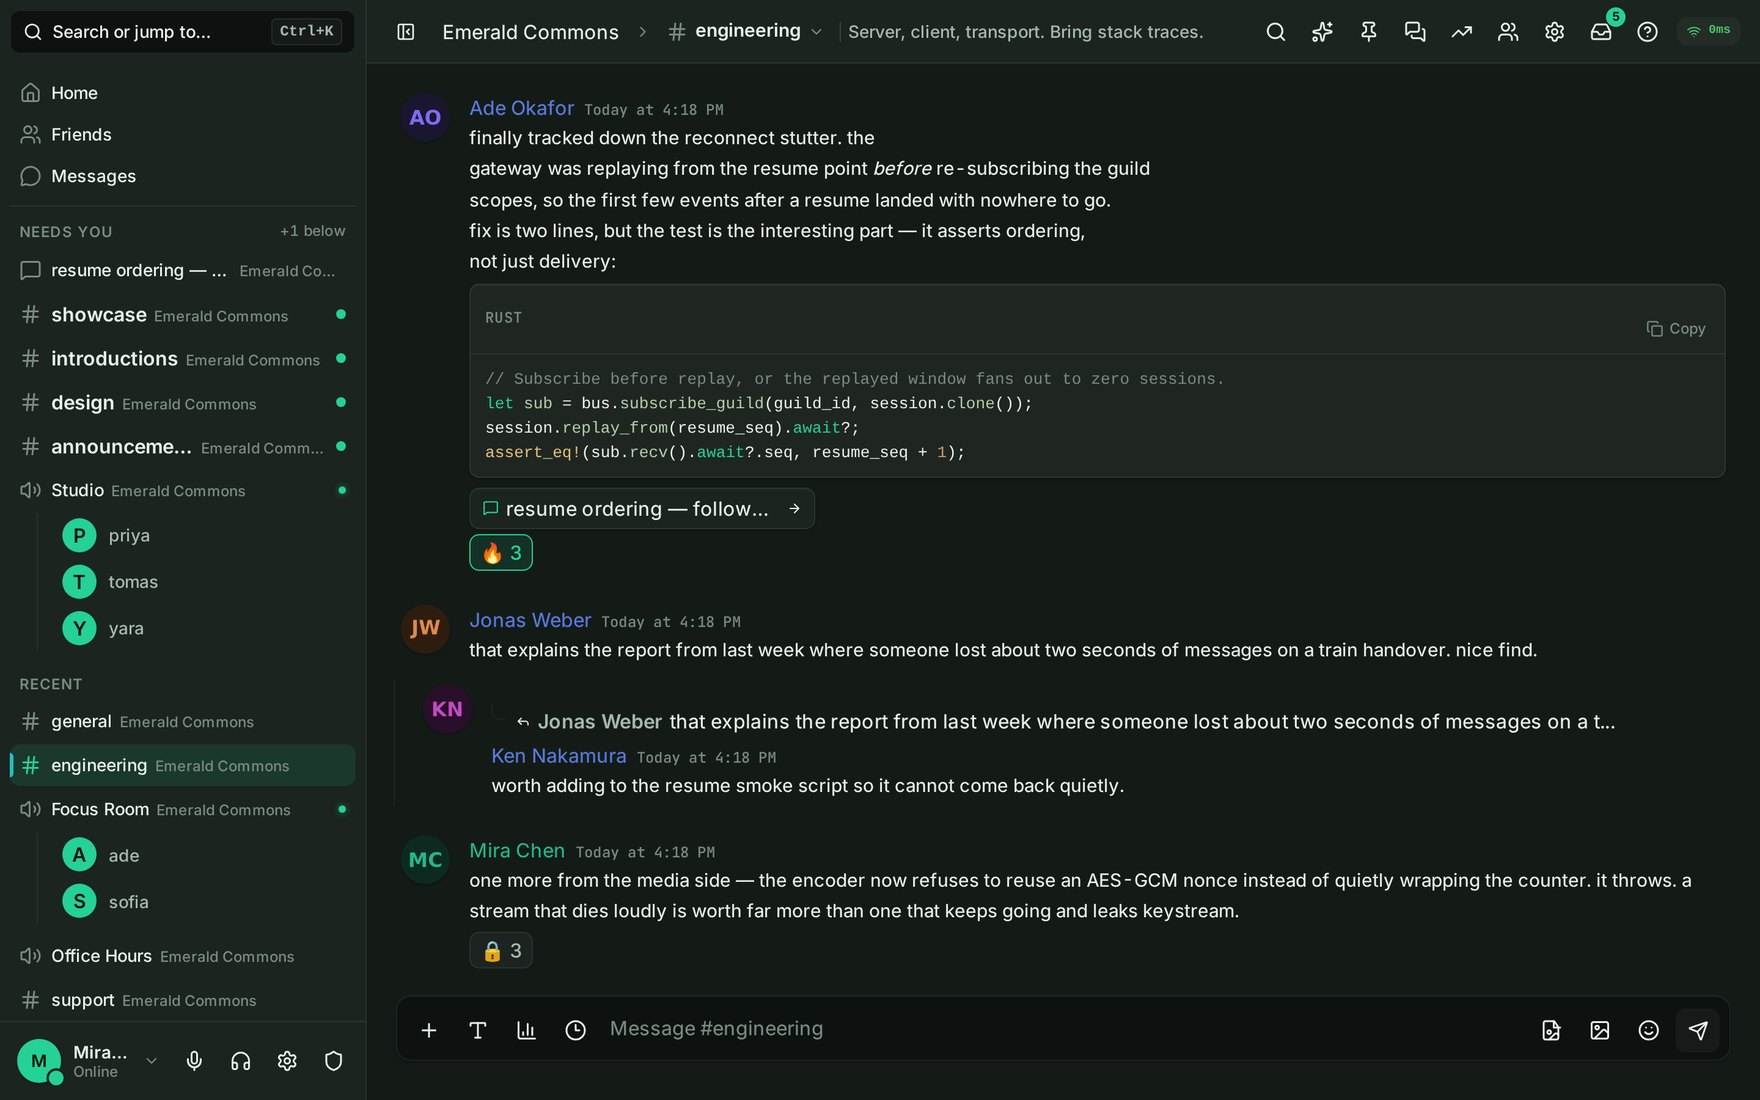
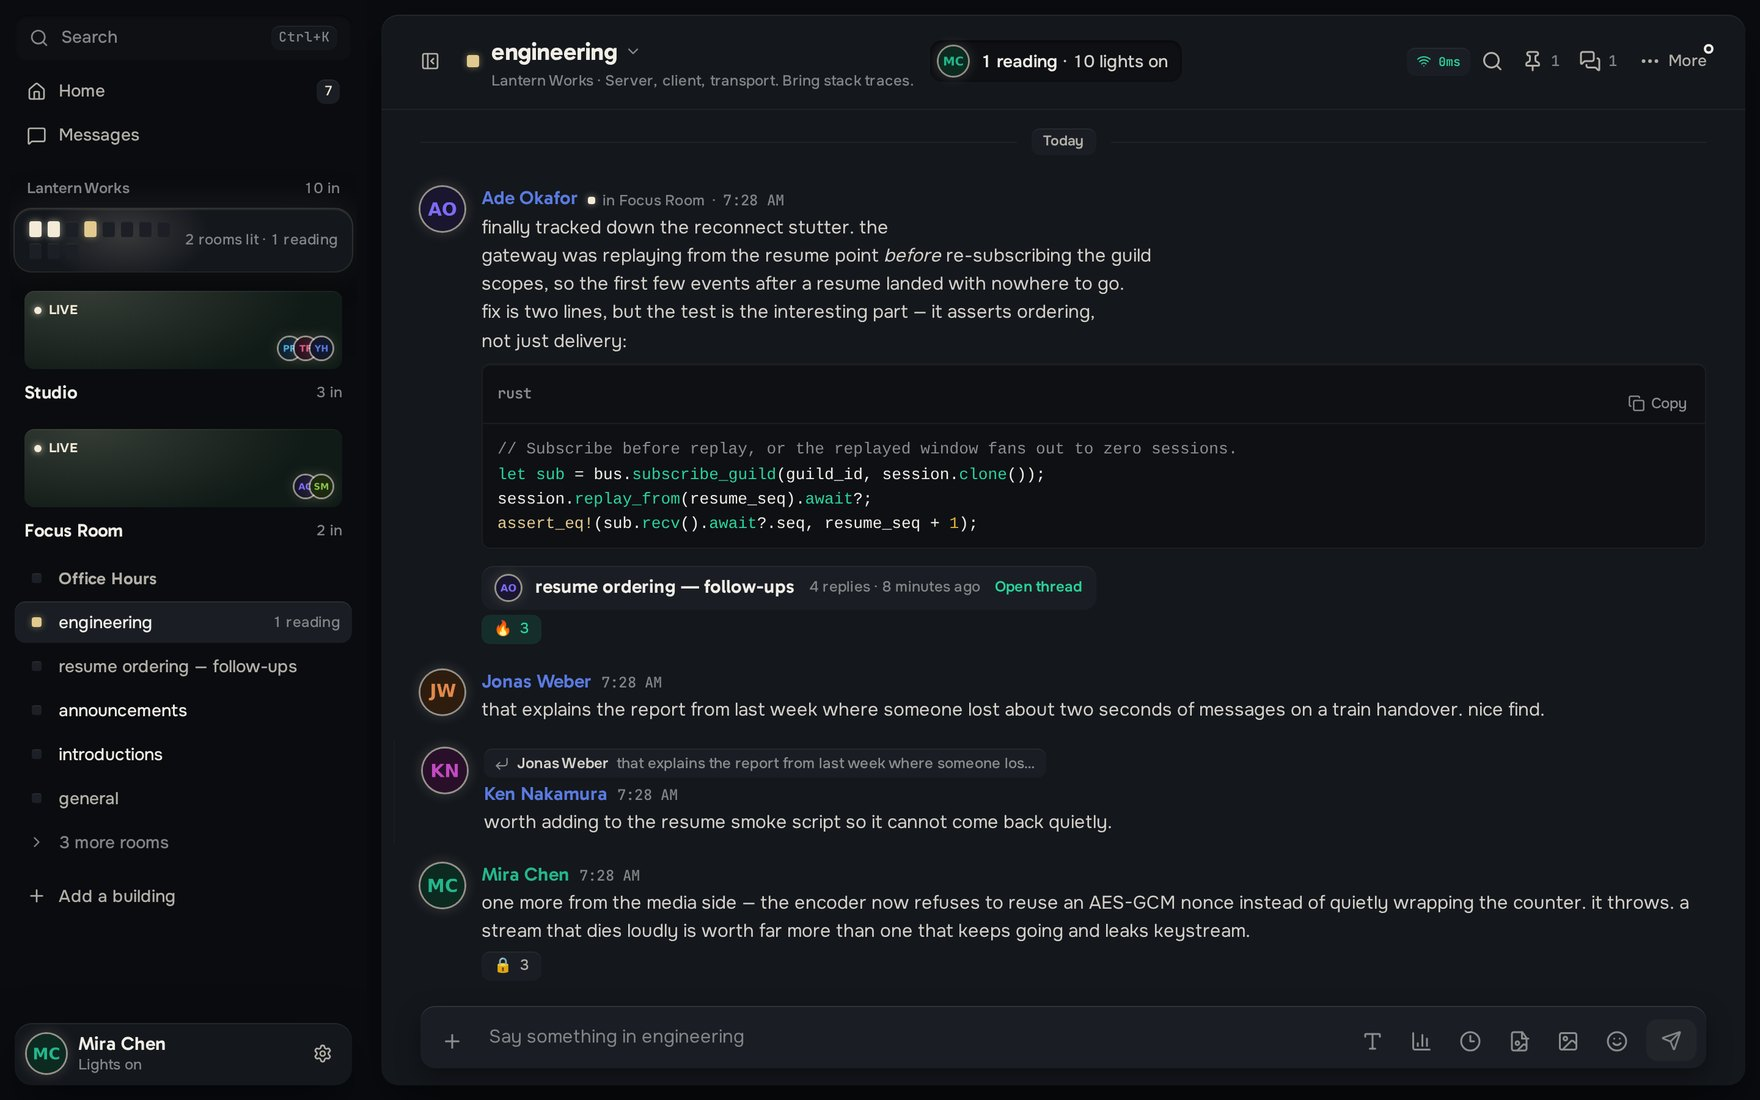
docs(readme): screenshots of the product that exists now
The eight README images were captured against Emerald Commons in July and show
a UI that no longer exists: a green-black ramp, a docked Members panel, a
"live rooms" space front door. They are replaced with a fresh set from the same
tooling, against the same kind of real instance — a throwaway server, a fixture
community seeded over the public REST API, and nine people holding real sessions
(four in browsers, five inside voice rooms over the client's own realtime
handshake). Nothing is drawn or retouched.

Three changes to the capture script the new UI required:

  - `rooms.jpg` is `lobby.jpg`: a building's lobby, not a list of channels. Its
    log line now reads the Lobby's own words ("2 rooms lit, 10 with their lights
    on") and says so out loud when nothing is lit, because a capture of a dark
    building is a capture of the wrong product.
  - `members.jpg` is `people.jpg`. There is no docked member list (§6.5); the
    header's here-now strip opens the one full list of people the product has.
  - the lobby is opened BEFORE the rooms are left to run, not after. A room's
    duration counts from the moment that page first saw it lit — the gateway
    sends membership, not call start times, and the client refuses to invent one
    — so a reload before the shot restarts every clock and the cards read
    "0:03". They now read the real elapsed time.

The fixture building is `Lantern Works` rather than `Emerald Commons`, and the
[…]

diff --git a/scripts/seed-demo-community.py b/scripts/seed-demo-community.py
@@ -153,7 +153,7 @@ OUT = {}
 # Space, roles, members
 # --------------------------------------------------------------------------
 print("creating space ...")
-guild = req("POST", "/guilds", token=OT, json={"name": "Emerald Commons"})
+guild = req("POST", "/guilds", token=OT, json={"name": "Lantern Works"})
 GID = str(guild["id"])
 OUT["guild_id"] = GID
 req("PATCH", f"/guilds/{GID}", token=OT, json={
@@ -216,7 +216,7 @@ for cid in default_channels:
 
 for cid, topic in [
     (ch_general, "Anything and everything. Be decent to each other."),
-    (ch_design, "Emerald Commons design system — tokens, layout, motion."),
+    (ch_design, "The Lantern Stage design system — tokens, light, motion."),
     (ch_eng, "Server, client, transport. Bring stack traces."),
     (ch_show, "Show what you built or what you are running."),
     (ch_announce, "Releases and things worth reading."),

diff --git a/README.md b/README.md
@@ -28,47 +28,47 @@
 
 ---
 
-Paracord is a source-available, Discord-style community platform that you run yourself. One server hosts spaces, text and voice rooms, direct messages, roles, moderation, bots, events, and community tools — without renting a third-party media service or handing your members' conversations to someone else.
+Paracord is a source-available, Discord-style community platform that you run yourself. One server hosts buildings, text and voice rooms, direct messages, roles, moderation, bots, events, and community tools — without renting a third-party media service or handing your members' conversations to someone else.
 
-The client opens on a single Home rather than a wall of server icons. Mentions, unread conversations, live rooms, and direct messages are ranked together, so you see what actually wants your attention instead of sweeping each space by hand.
+The client is a building at night, and light means people. Every community you belong to is a building; every room in it is a window, lit while somebody is in there. The app opens on Home — the street outside your buildings — rather than a wall of server icons, so you can see where people are before you go looking.
 
-![Paracord Home: live rooms, the space you were last in, and channels to pick back up](docs/images/readme/home.jpg)
+![Home: the buildings you belong to, which of their rooms are lit, and the work waiting on you](docs/images/readme/home.jpg)
 
 ## Why Paracord
 
 - **Own the deployment.** One server binary, or Docker Compose. SQLite works out of the box; PostgreSQL is there when the instance outgrows it.
 - **Own the media path.** Voice, video, and screen share run on Paracord's native QUIC/WebTransport stack by default. LiveKit is an option, not a dependency.
 - **Start without a configuration ceremony.** First run writes the config, generates a JWT signing secret and SQLite database, and — for the standalone binary — issues a self-signed certificate. Then it prints the URL to open.
-- **Use one client everywhere.** Connect to several Paracord servers and move between their spaces, conversations, and notifications without switching apps.
+- **Use one client everywhere.** Connect to several Paracord servers and move between their buildings, conversations, and notifications without switching apps.
 - **Shape the community.** Roles, permissions, onboarding, moderation, AutoMod, bots, webhooks, storage policy, events, and audit logs are all managed in the app.
 - **See what the server is doing.** A built-in health view reports backups, database size, transport security, and capacity — and tells you what to fix, not just what broke.
 
 ## A look around
 
-Spaces open on the people who are already there. Rooms that have someone in them come first; the rest stay one click away.
+A building's lobby is what you see from the street: who has their lights on, which rooms are lit right now and who is in them, what is coming up, and the text rooms below. A lit room shows you what is happening in it before you decide to walk in.
 
-![A space opening on its rooms, two of them occupied](docs/images/readme/rooms.jpg)
+![A building's lobby: two rooms lit with the people in them, one dark, and an event coming up](docs/images/readme/lobby.jpg)
 
-Conversations carry what you would expect them to: replies, reactions, threads, polls, attachments, and code that arrives readable.
-
-| | |
-| :--- | :--- |
-| ![A text channel with replies, reactions, inline code, and an open poll](docs/images/readme/messaging.jpg) | ![A syntax-highlighted code block and the thread branching off it](docs/images/readme/engineering.jpg) |
-| Markdown, attachments, reactions, polls, scheduled messages, commands, GIFs, stickers, and embeds. | Syntax-highlighted code blocks, and threads that split a tangent off without derailing the channel. |
-
-Context panels stay out of the way until you ask for them, and the command palette reaches anything you can name.
+Conversations carry what you would expect them to: replies, reactions, threads, polls, attachments, and code that arrives readable. The header counts the people reading rather than listing everyone who ever joined.
 
 | | |
 | :--- | :--- |
-| ![The Members panel open beside a channel, grouped by role](docs/images/readme/members.jpg) | ![The command palette](docs/images/readme/command-palette.jpg) |
-| Members, threads, pins, inbox, search, and summaries open beside the conversation rather than on top of it. | Jump to any action, space, channel, DM, or setting with <kbd>Ctrl</kbd>/<kbd>⌘</kbd> + <kbd>K</kbd>. |
+| ![A text room with replies, reactions, inline code, and an open poll](docs/images/readme/messaging.jpg) | ![A syntax-highlighted code block and the thread branching off it](docs/images/readme/engineering.jpg) |
+| Markdown, attachments, reactions, polls, scheduled messages, commands, GIFs, stickers, and embeds. | Syntax-highlighted code blocks, and threads that split a tangent off without derailing the room. |
 
-The client is yours to set up, and so is the space.
+There is no member list pinned to the side of every room. The people who are here *now* are a lit strip in the header, and its sheet is the one place a full list lives.
 
 | | |
 | :--- | :--- |
-| ![Appearance settings: themes, accent colors, and message density](docs/images/readme/appearance.jpg) | ![The space administration overview](docs/images/readme/space-settings.jpg) |
-| Dark, light, AMOLED, and high-contrast themes; accent colors; message density; locale; and guarded custom CSS. | Roles, channels, invites, bots, events, onboarding, economy, storage, moderation, reports, and audit logs. |
+| ![The header's people sheet, showing who is reading and who has their lights on](docs/images/readme/people.jpg) | ![The command palette](docs/images/readme/command-palette.jpg) |
+| Who is reading, who is in a room, and who is simply around — on request, not permanently docked. | Jump to any action, building, room, DM, or setting with <kbd>Ctrl</kbd>/<kbd>⌘</kbd> + <kbd>K</kbd>. |
+
+The client is yours to set up, and so is the building.
+
+| | |
+| :--- | :--- |
+| ![Appearance settings: Night, Daylight, AMOLED and high-contrast themes, accent colours and message density](docs/images/readme/appearance.jpg) | ![The building's administration overview](docs/images/readme/space-settings.jpg) |
+| Night, Daylight, AMOLED, and high-contrast themes; accent colours; message density; locale; and guarded custom CSS. The accent recolours the actions you can take — never the light that says who is present. | Roles, rooms, invites, bots, events, onboarding, economy, storage, moderation, reports, and audit logs. |
 
 ## What Paracord includes
 

diff --git a/docs/images/readme/MANIFEST.md b/docs/images/readme/MANIFEST.md
@@ -1,35 +1,57 @@
 # README screenshots
 
-Captured: 2026-07-26, against the v2.0.0 client and server.
+Captured: 2026-09-13, against the v2.0.0 client and server on the "Lantern
+Stage" design (`docs/lantern-stage-spec.md`).
 
 Source: a local Paracord instance seeded with a fixture community, driven
 through the product's own REST API and UI. Everyone visible in these images held
 a real signed-in session at capture time, and the people shown inside voice
 rooms had actually joined those rooms. Nothing was written directly into the
-database or retouched afterwards.
+database or retouched afterwards. The room durations on the lobby cards are real
+elapsed time, watched from the same page that took the shot — the client counts
+from when it first saw a room lit and refuses to guess earlier.
 
 Viewport: 1440×900 at 2× device scale, downscaled to 1760px wide.
 
-Theme: Dark with the default emerald accent.
+Theme: Night (the default) with the emerald accent.
 
-Fixture space: `Emerald Commons` — 10 members, 15 channels, 5 roles.
+Fixture building: `Lantern Works` — 10 members, 15 rooms, 5 roles.
 
 ## Files
 
-- `home.jpg` — Home: live rooms, the space you were last in, and channels to pick back up.
-- `rooms.jpg` — a space opening on its rooms, two of them occupied.
-- `messaging.jpg` — a text channel with replies, reactions, inline code, and an open poll.
-- `members.jpg` — the same channel with the Members panel open, grouped by role.
+- `home.jpg` — Home: the buildings you belong to, which of their rooms are lit, what is coming up, and the work waiting on you.
+- `lobby.jpg` — a building's lobby: two rooms lit with the people in them, one dark, and an event coming up.
+- `messaging.jpg` — a text room with replies, reactions, inline code, and an open poll.
+- `people.jpg` — the header's people sheet: who is reading, who is in a room, and who is simply around. The only full list of people in the product.
 - `engineering.jpg` — a syntax-highlighted code block and the thread branching off it.
 - `command-palette.jpg` — the command palette (Ctrl/⌘ + K).
-- `appearance.jpg` — Appearance settings: themes, accent colors, and message density.
-- `space-settings.jpg` — the space administration overview.
+- `appearance.jpg` — Appearance settings: Night, Daylight, AMOLED and high-contrast themes, accent colours, and message density.
+- `space-settings.jpg` — the building's administration overview.
 
 The screenshots contain only local fixture data. No production account, server,
 token, invite, or message content appears in them.
 
 ## Regenerating
 
-`scripts/capture-readme-screenshots.mjs` drives the capture against a running
-instance. Point it at a populated space — a fresh instance yields empty-state
-screenshots that do not represent the product.
+```bash
+# 1. A throwaway instance, bootstrapped without a first-owner claim so the
+#    seeder's first registration owns it.
+PARACORD_SETUP_REQUIRE_CLAIM=false target/release/paracord-server
+
+# 2. The fixture community, over the public REST API.
+python3 scripts/seed-demo-community.py
+
+# 3. The shots. Nine real sessions are held open for the run: four people in
+#    browsers, five inside voice rooms over the same realtime handshake the
+#    client performs.
+NODE_TLS_REJECT_UNAUTHORIZED=0 PLAYWRIGHT_BROWSERS_PATH=$HOME/.cache/ms-playwright \
+  node scripts/capture-readme-screenshots.mjs
+```
+
+`PARACORD_BASE`, `PARACORD_DEMO_OUT` and `PARACORD_SHOTS_OUT` move each step off
+its defaults; `PARACORD_SHOTS_DWELL_MS` is how long the lobby watches the rooms
+before the first frame.
+
+Point it at a populated building — a fresh instance yields empty-state
+screenshots that do not represent the product. The script writes 2× PNGs;
+downscale to 1760px wide and re-encode as JPEG (quality ~86) before committing.
